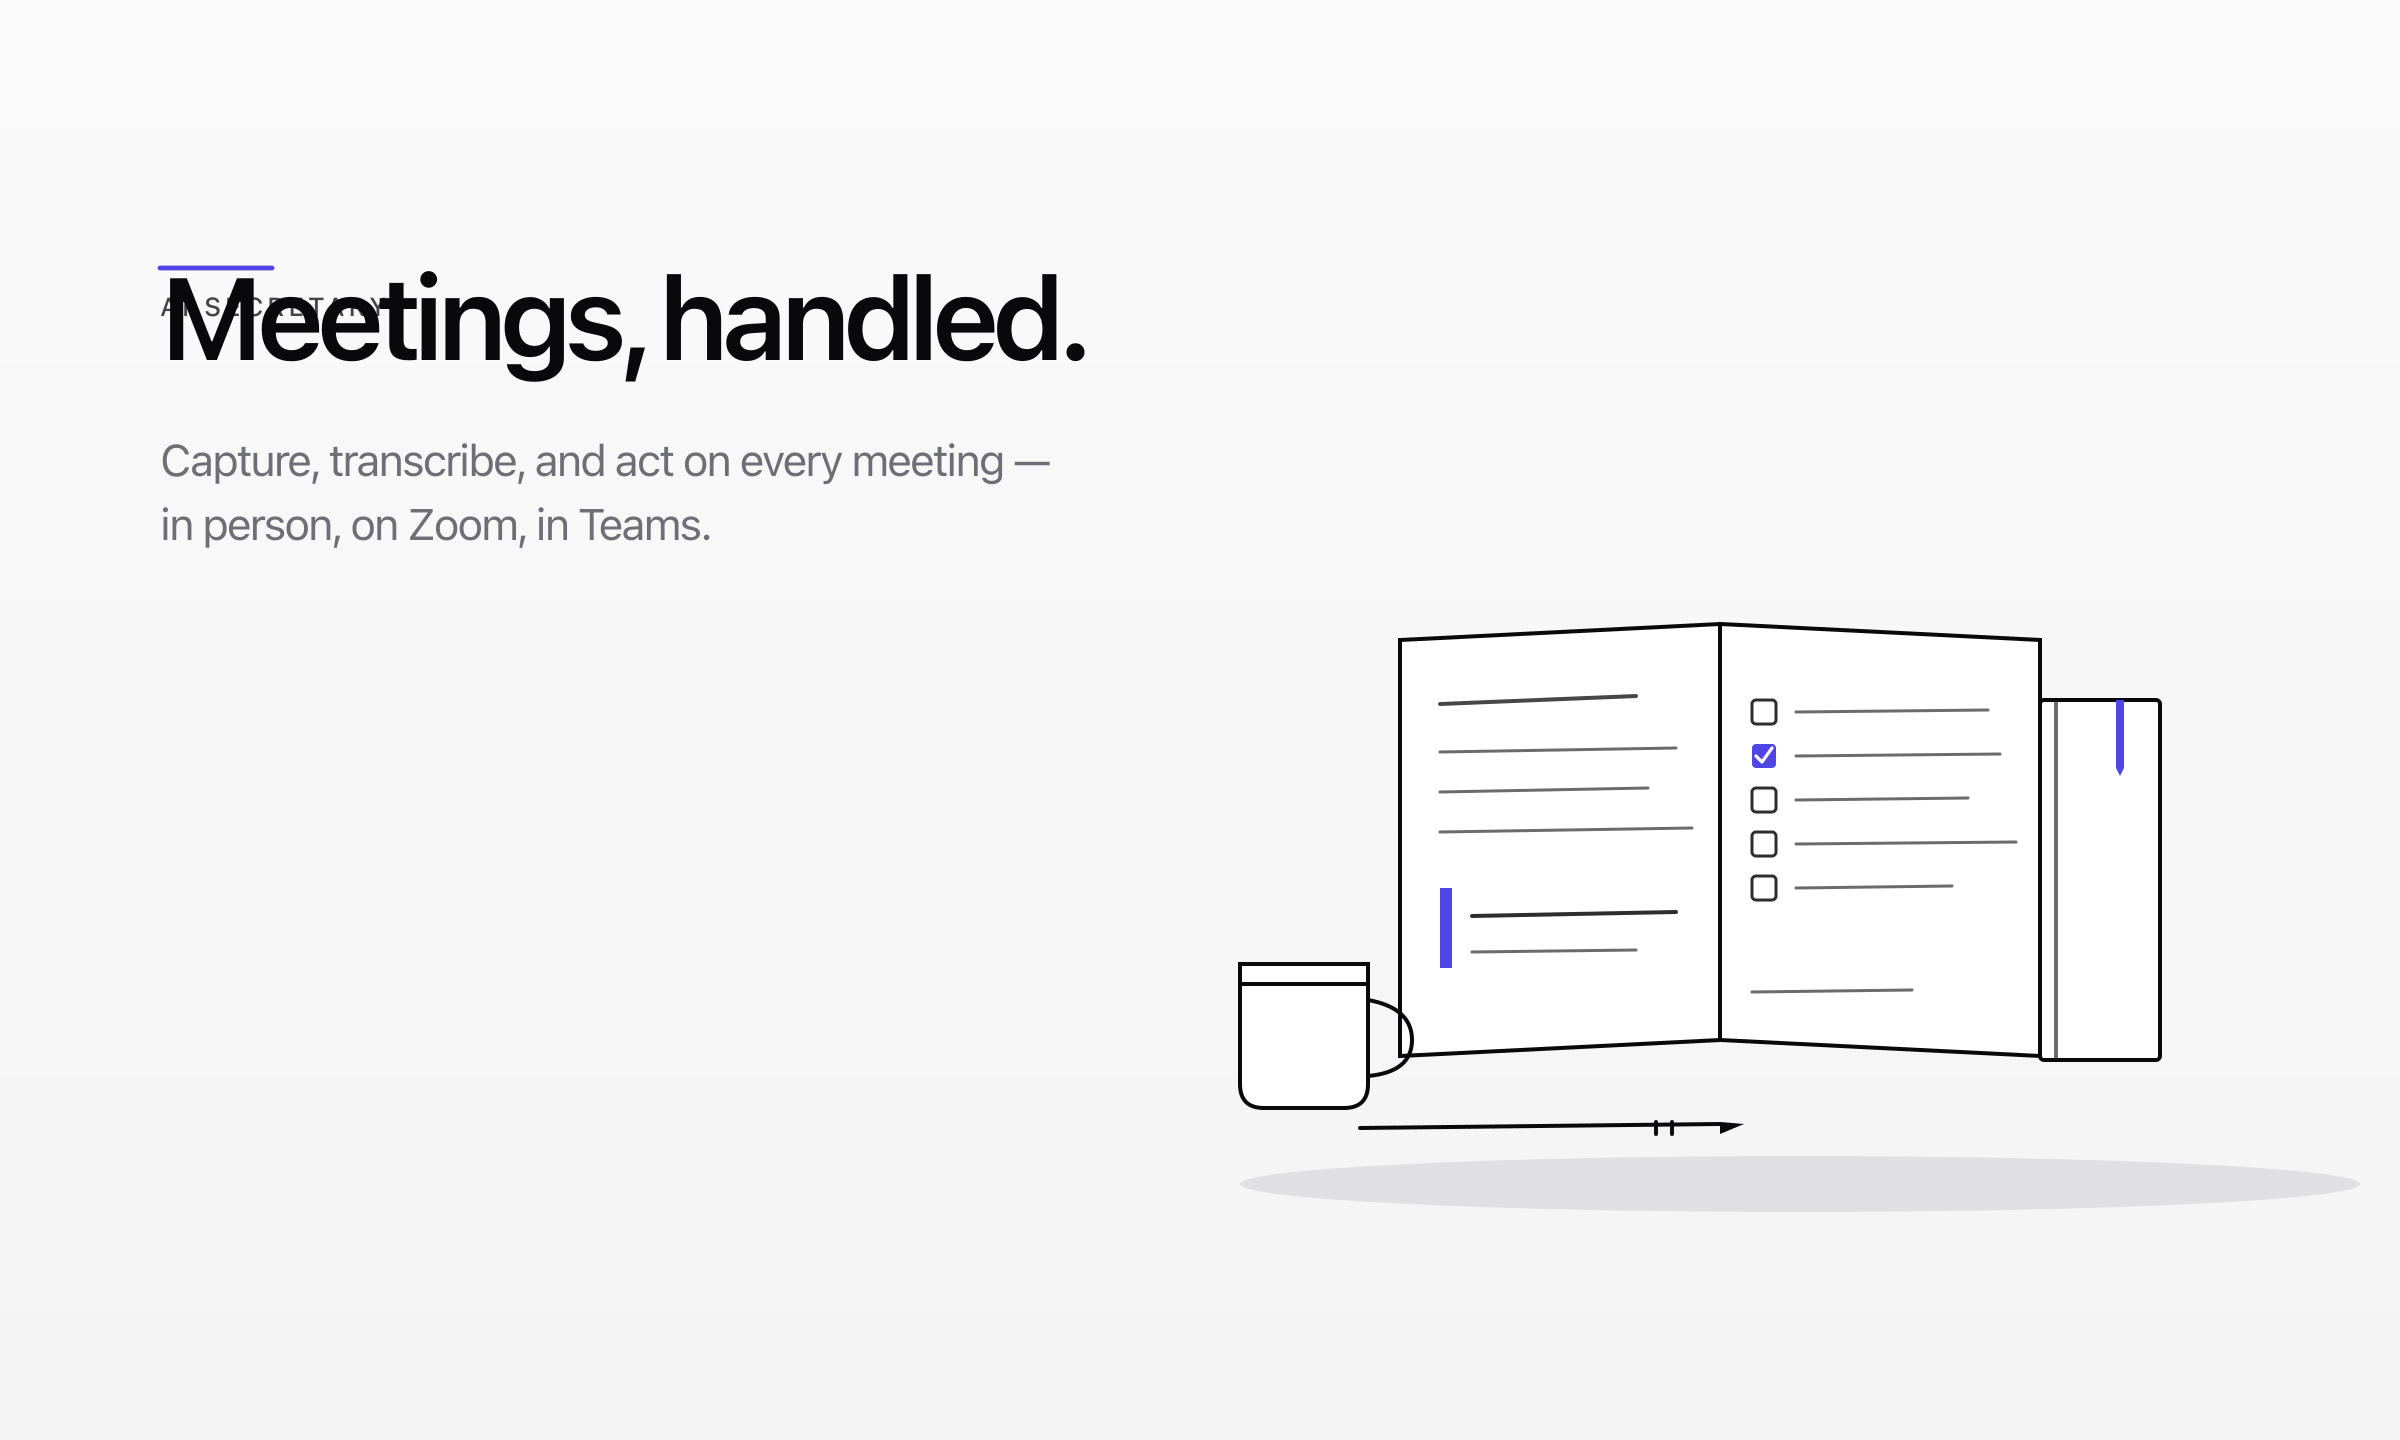
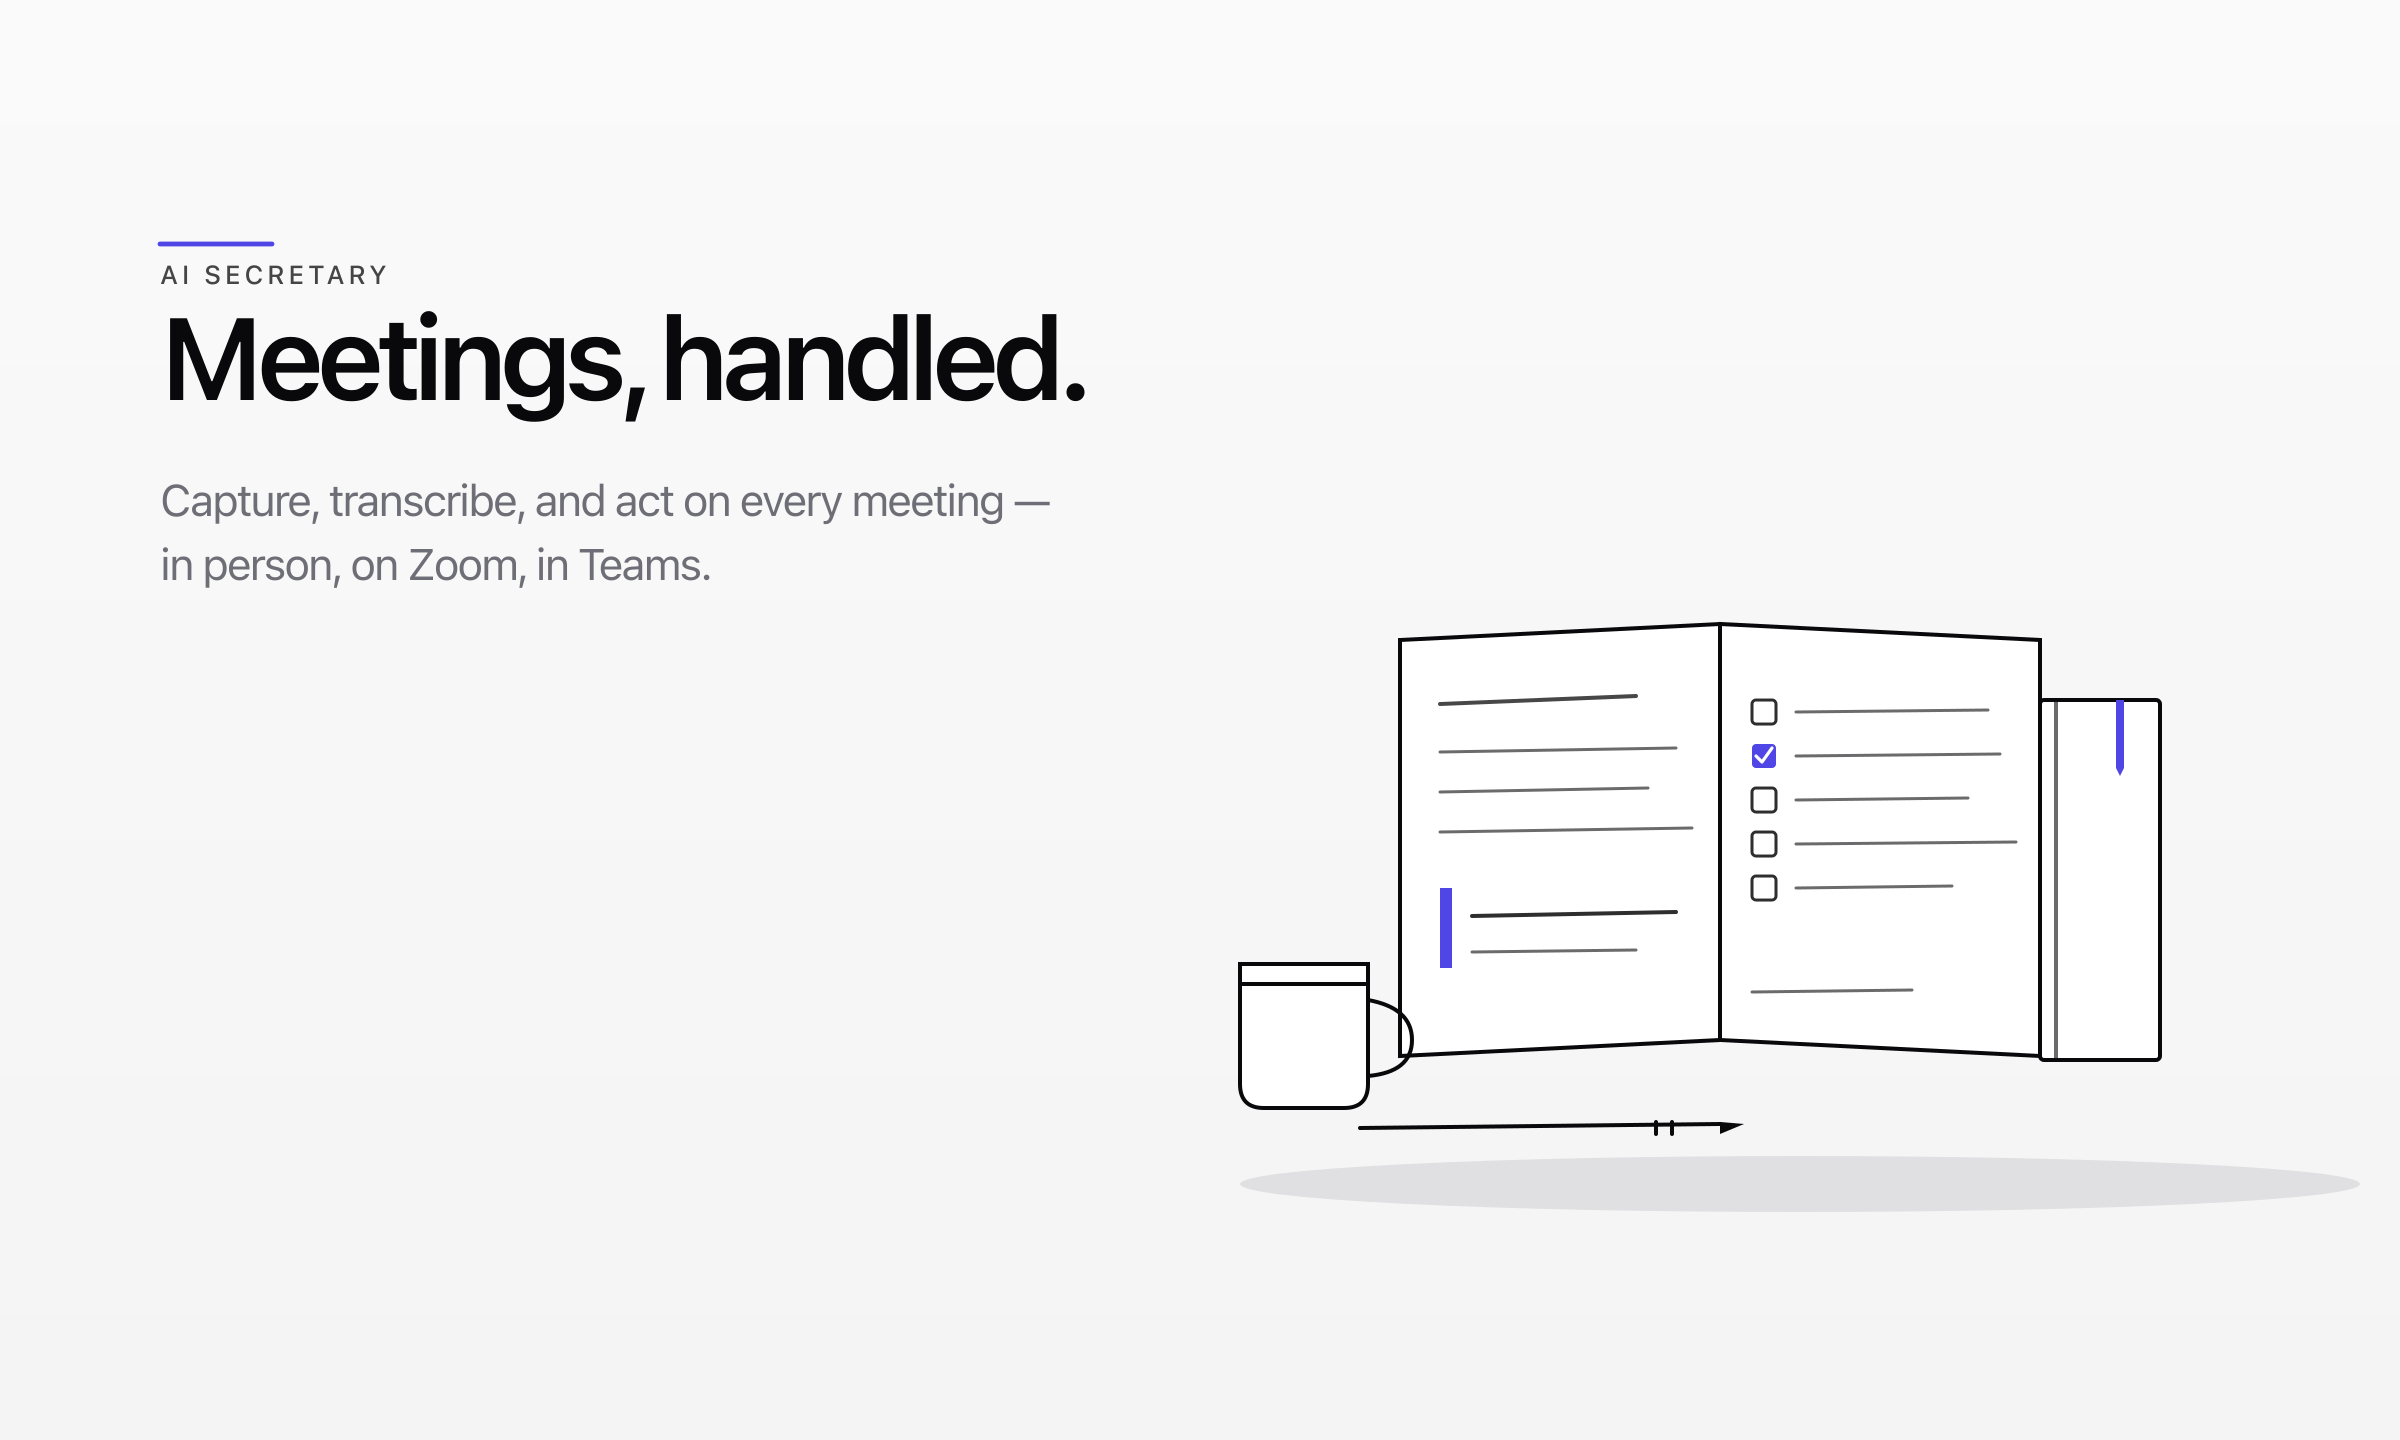
fix: hero SVG eyebrow/H1 overlap + portfolio hero polish
The README hero rendered with "AI SECRETARY" eyebrow text colliding
with the cap-height of "Meetings, handled." — the eyebrow text sat at
y=-22 from the H1 baseline, well inside the 41px cap-height of a 58px
font. Pushed the headline group down to translate(80 200) and lifted
the eyebrow + accent rule to give a clean ~14px gap between eyebrow
descender and H1 cap-top.

Portfolio one-pager:
- Two-column hero with new hero-illo.svg (right-side composition only,
  no embedded text — the HTML provides the headline)
- Lede tightened to match the SVG's marketing voice instead of the
  longer technical pitch
- "Architecture diagrams" + "Compliance docs" CTAs now point at
  absolute GitHub blob/tree URLs so they keep working if the page is
  served from anywhere other than docs/media/portfolio/

Test count standardized at 1,715 across README badge, README intro,
and the local-dev "pnpm test" comment (was a mix of 1700+ and 1,715
between README and the portfolio one-pager).

Changed region(s): [[0.0625, 0.1562, 0.4688, 0.4062]]

diff --git a/docs/media/portfolio/index.html b/docs/media/portfolio/index.html
@@ -50,13 +50,22 @@
       .nav a:hover { color: var(--fg); }
 
       .hero { padding: 72px 0 48px; }
+      .hero-grid {
+        display: grid; grid-template-columns: minmax(0, 1.25fr) minmax(0, 1fr);
+        gap: 48px; align-items: center;
+      }
+      .hero-illo { width: 100%; height: auto; max-width: 520px; justify-self: end; }
+      @media (max-width: 880px) {
+        .hero-grid { grid-template-columns: 1fr; gap: 24px; }
+        .hero-illo { max-width: 360px; justify-self: start; }
+      }
       .eyebrow {
         font-size: 12px; letter-spacing: 2.5px; color: var(--accent); font-weight: 600;
         text-transform: uppercase; margin-bottom: 12px; display: inline-flex; align-items: center; gap: 12px;
       }
       .eyebrow::before { content: ""; width: 32px; height: 2px; background: var(--accent); border-radius: 2px; }
       h1 { font-size: 56px; line-height: 1.05; letter-spacing: -1.6px; margin: 0 0 18px; font-weight: 600; }
-      .lede { font-size: 20px; color: var(--muted); max-width: 720px; margin: 0; }
+      .lede { font-size: 20px; color: var(--muted); max-width: 560px; margin: 0; }
       .cta-row { display: flex; gap: 12px; margin-top: 28px; flex-wrap: wrap; }
       .btn {
         display: inline-flex; align-items: center; gap: 8px;
@@ -145,20 +154,23 @@
 
     <main>
       <section class="hero">
-        <div class="container">
-          <div class="eyebrow">Portfolio project · UW MSIM</div>
-          <h1>Meetings, handled.</h1>
-          <p class="lede">
-            Multi-tenant SaaS reference implementation. Capture meetings via mobile, web,
-            Zoom-bot, or Teams-bot. Transcribe, analyze through one of eight vertical
-            modules, and surface decisions through a searchable, RAG-chattable knowledge
-            base — with HIPAA + GDPR + SOC 2 controls baked into the data plane.
-          </p>
-          <div class="cta-row">
-            <a class="btn btn-primary" href="https://github.com/anthonyonazure/ai-secretary" target="_blank" rel="noopener">View on GitHub →</a>
-            <a class="btn" href="../diagrams/architecture.md">Architecture diagrams</a>
-            <a class="btn" href="../../compliance/">Compliance docs</a>
+        <div class="container hero-grid">
+          <div>
+            <div class="eyebrow">Portfolio project · UW MSIM</div>
+            <h1>Meetings, handled.</h1>
+            <p class="lede">
+              Capture, transcribe, and act on every meeting — in person, on Zoom,
+              in Teams. A multi-tenant SaaS reference implementation with eight
+              vertical analysis modules and HIPAA + GDPR + SOC 2 controls in
+              the data plane.
+            </p>
+            <div class="cta-row">
+              <a class="btn btn-primary" href="https://github.com/anthonyonazure/ai-secretary" target="_blank" rel="noopener">View on GitHub →</a>
+              <a class="btn" href="https://github.com/anthonyonazure/ai-secretary/blob/main/docs/media/diagrams/architecture.md" target="_blank" rel="noopener">Architecture diagrams</a>
+              <a class="btn" href="https://github.com/anthonyonazure/ai-secretary/tree/main/docs/compliance" target="_blank" rel="noopener">Compliance docs</a>
+            </div>
           </div>
+          <img class="hero-illo" src="../illustrations/hero-illo.svg" alt="Open notebook with action items, a closed companion notebook, a mug, and a pencil — the workspace where meetings become decisions">
         </div>
       </section>
 

diff --git a/README.md b/README.md
@@ -6,7 +6,7 @@
 
 > Meeting Intelligence & Decision Platform. Captures meetings (in-person via mobile/web, online via Zoom/Teams bots), transcribes them, runs vertical-specific AI analysis (sales, HR, education, medical, support, PM, psychology, general), and exposes everything through a searchable, RAG-chattable knowledge base. Multi-tenant SaaS with HIPAA + GDPR + SOC 2 controls baked into the architecture.
 
-![tests](https://img.shields.io/badge/tests-1700%2B%20passing-brightgreen)
+![tests](https://img.shields.io/badge/tests-1%2C715%20passing-brightgreen)
 ![packages](https://img.shields.io/badge/packages-19-blue)
 ![compliance](https://img.shields.io/badge/compliance-HIPAA%20%7C%20GDPR%20%7C%20SOC%202-purple)
 ![license](https://img.shields.io/badge/license-MIT-blue)
@@ -18,7 +18,7 @@ platform. The codebase ships:
 
 - A locked **architecture contract** with 6 ADRs — every architectural
   deviation recorded.
-- **1700+ automated tests** across 19 packages — every state-changing
+- **1,715 automated tests** across 19 packages — every state-changing
   route, every queue handler, every provider abstraction.
 - **Provider-isolation CI gates** that prevent SDK leakage across the
   monorepo (LLM SDKs only inside `packages/llm-gateway`, CRM SDKs only
@@ -211,7 +211,7 @@ pnpm --filter @aisecretary/api dev
 ### Test suite
 
 ```bash
-pnpm test                                       # 1700+ tests across all packages
+pnpm test                                       # 1,715 tests across all packages
 pnpm --filter @aisecretary/api test             # one package
 pnpm --filter @aisecretary/api test -- --run crm  # one file
 ```